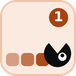
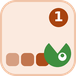
Chomp: green alligator head, and the d-pad is the only movement on a phone
Two owner reports from the live board.

1. Dragging on the board moved the gator. The canvas carried swipe-to-move
   pointer handlers plus touchAction:none, so a thumb trying to SCROLL THE PAGE
   dragged the head the length of the board. Both are gone: the canvas is inert,
   the page scrolls over it like any other element, and on a phone the d-pad is
   the only movement control.

2. The head is now an actual alligator, and green. It is drawn in local
   coordinates with +x as the direction of travel and then rotated into place,
   which is the only way jaw geometry stays readable: two jaws hinged at the
   back, teeth along the bite line, an eye ridge proud of the skull with a slit
   pupil (a round one reads as a frog), and a nostril at the snout tip. The jaws
   swing wide on the move that swallows a mascot and clamp shut when the run
   ends. Tile art and the share card follow the same green.

Changed region(s): [[0.5789, 0.5526, 0.9474, 0.8947]]

diff --git a/app/chomp/ChompClient.jsx b/app/chomp/ChompClient.jsx
@@ -94,39 +94,87 @@ function scoreOf(eaten, total) {
 }
 
 // ---- the gator's head ------------------------------------------------------
-// A circle with a wedge of jaw bitten out of the leading edge, which is the one
-// shape that still reads as an open mouth at thirty pixels. It gapes wider on
-// the move that swallows a mascot and the eye becomes an X when the run ends.
+// Drawn in LOCAL coordinates with +x pointing the way it is travelling, then
+// rotated into place. Everything below is therefore written as if the gator
+// always faces right, which is the only way jaw geometry stays readable.
+//
+// It is a long snout rather than a disc: two jaw halves hinged at the back, with
+// teeth along the bite line, an eye ridge sitting proud on top, and a nostril at
+// the tip. The jaws swing open on the move that swallows a mascot and clamp shut
+// when the run ends.
+const GATOR = { skin: '#3f8f3f', dark: '#2a6b2a', belly: '#8fca7a', teeth: '#ffffff' };
 function drawHead(ctx, cellXY, facing, cell, dead, chewing) {
   const [hx, hy] = cellXY;
   const f = facing && (facing[0] || facing[1]) ? facing : [1, 0];
-  const [fx, fy] = f;
   const cx = hx * cell + cell / 2, cy = hy * cell + cell / 2;
-  const R = cell * 0.46;
-  const ang = Math.atan2(fy, fx);
-  const gape = dead ? 0.16 : chewing ? 0.85 : 0.5;
-  ctx.fillStyle = COLORS.ink;
-  ctx.beginPath();
-  ctx.arc(cx, cy, R, ang + gape, ang - gape + Math.PI * 2);
-  ctx.lineTo(cx, cy);
-  ctx.closePath();
-  ctx.fill();
-  const px = -fy, py = fx;
-  const ex = cx - fx * cell * 0.10 + px * cell * 0.19;
-  const ey = cy - fy * cell * 0.10 + py * cell * 0.19;
-  const r = Math.max(1.7, cell * 0.115);
-  ctx.fillStyle = '#ffffff';
-  ctx.beginPath(); ctx.arc(ex, ey, r, 0, 7); ctx.fill();
-  if (dead) {
-    ctx.strokeStyle = COLORS.ink; ctx.lineWidth = Math.max(1.2, cell * 0.05);
+  const c = cell;
+  const gape = dead ? 0.04 : chewing ? 0.46 : 0.26;   // radians, per jaw
+
+  ctx.save();
+  ctx.translate(cx, cy);
+  ctx.rotate(Math.atan2(f[1], f[0]));
+
+  // one jaw: a wedge from the hinge out to the snout, drawn either side of the
+  // bite line. `sign` is -1 for the upper jaw, +1 for the lower.
+  const jaw = (sign, len, thick, fill) => {
+    ctx.save();
+    ctx.rotate(sign * gape);
     ctx.beginPath();
-    ctx.moveTo(ex - r * 0.62, ey - r * 0.62); ctx.lineTo(ex + r * 0.62, ey + r * 0.62);
-    ctx.moveTo(ex + r * 0.62, ey - r * 0.62); ctx.lineTo(ex - r * 0.62, ey + r * 0.62);
+    ctx.moveTo(-c * 0.34, 0);
+    ctx.lineTo(len, 0);
+    ctx.quadraticCurveTo(len + c * 0.05, sign * thick * 0.5, len - c * 0.06, sign * thick);
+    ctx.lineTo(-c * 0.26, sign * thick * 1.05);
+    ctx.quadraticCurveTo(-c * 0.40, sign * thick * 0.6, -c * 0.34, 0);
+    ctx.closePath();
+    ctx.fillStyle = fill;
+    ctx.fill();
+    // teeth along the bite line, biggest at the front
+    if (gape > 0.10) {
+      ctx.fillStyle = GATOR.teeth;
+      for (let i = 0; i < 4; i++) {
+        const x = len - c * 0.10 - i * c * 0.10;
+        const w = c * (0.055 - i * 0.006);
+        ctx.beginPath();
+        ctx.moveTo(x - w, 0);
+        ctx.lineTo(x + w, 0);
+        ctx.lineTo(x, sign * c * 0.11);
+        ctx.closePath();
+        ctx.fill();
+      }
+    }
+    ctx.restore();
+  };
+
+  jaw(1, c * 0.46, c * 0.20, GATOR.belly);   // lower jaw, paler, drawn first
+  jaw(-1, c * 0.52, c * 0.26, GATOR.skin);   // upper jaw, on top
+
+  // the eye ridge, sitting proud on the skull behind the snout
+  ctx.save();
+  ctx.rotate(-gape);
+  const ex = -c * 0.14, ey = -c * 0.24;
+  ctx.fillStyle = GATOR.skin;
+  ctx.beginPath(); ctx.arc(ex, ey, c * 0.13, 0, 7); ctx.fill();
+  ctx.fillStyle = dead ? GATOR.dark : '#ffffff';
+  ctx.beginPath(); ctx.arc(ex, ey, c * 0.085, 0, 7); ctx.fill();
+  if (dead) {
+    ctx.strokeStyle = '#ffffff'; ctx.lineWidth = Math.max(1, c * 0.035);
+    ctx.beginPath();
+    ctx.moveTo(ex - c * 0.05, ey - c * 0.05); ctx.lineTo(ex + c * 0.05, ey + c * 0.05);
+    ctx.moveTo(ex + c * 0.05, ey - c * 0.05); ctx.lineTo(ex - c * 0.05, ey + c * 0.05);
     ctx.stroke();
   } else {
-    ctx.fillStyle = COLORS.ink;
-    ctx.beginPath(); ctx.arc(ex + fx * r * 0.36, ey + fy * r * 0.36, Math.max(0.9, r * 0.46), 0, 7); ctx.fill();
+    // a slit pupil, because a round one reads as a frog
+    ctx.fillStyle = '#0b0c0e';
+    ctx.beginPath();
+    ctx.ellipse(ex, ey, Math.max(0.7, c * 0.022), c * 0.062, 0, 0, 7);
+    ctx.fill();
   }
+  // nostril at the very tip of the snout
+  ctx.fillStyle = GATOR.dark;
+  ctx.beginPath(); ctx.arc(c * 0.40, -c * 0.13, Math.max(0.8, c * 0.032), 0, 7); ctx.fill();
+  ctx.restore();
+
+  ctx.restore();
 }
 
 // ---- stats (identical shape to every other daily) --------------------------
@@ -358,29 +406,12 @@ export default function ChompClient({ puzzles = [], forceNum = null }) {
     onContextMenu: (e) => e.preventDefault(),
   });
 
-  const swRef = useRef(null);
-  const boardProps = {
-    onPointerDown: (e) => {
-      if (gRef.current.status !== 'playing' || !gRef.current.t0) return;
-      e.preventDefault();
-      swRef.current = { ax: e.clientX, ay: e.clientY };
-      e.currentTarget.setPointerCapture && e.currentTarget.setPointerCapture(e.pointerId);
-    },
-    onPointerMove: (e) => {
-      const s = swRef.current;
-      if (!s) return;
-      const cell = Math.max(16, cellRef.current);
-      const dx = e.clientX - s.ax, dy = e.clientY - s.ay;
-      if (Math.abs(dx) >= cell && Math.abs(dx) >= Math.abs(dy)) {
-        move(dx > 0 ? 'right' : 'left'); s.ax += dx > 0 ? cell : -cell; s.ay = e.clientY;
-      } else if (Math.abs(dy) >= cell) {
-        move(dy > 0 ? 'down' : 'up'); s.ay += dy > 0 ? cell : -cell; s.ax = e.clientX;
-      }
-    },
-    onPointerUp: () => { swRef.current = null; },
-    onPointerCancel: () => { swRef.current = null; },
-    onContextMenu: (e) => e.preventDefault(),
-  };
+  // NO drag-to-move on the board (owner, 2026-08-08). The swipe handler that
+  // used to live here captured pointer events over the canvas, so a thumb trying
+  // to SCROLL THE PAGE dragged the gator the length of the board instead. On a
+  // phone the d-pad is the only movement control; the canvas is now inert and
+  // `touchAction` is left alone so the page scrolls over it like any other
+  // element.
 
   // ---- canvas --------------------------------------------------------------
   // sizeBoard redraws through drawRef rather than closing over `draw`. It only
@@ -663,7 +694,7 @@ export default function ChompClient({ puzzles = [], forceNum = null }) {
             </div>
 
             <div ref={boxRef} style={{ display: 'flex', justifyContent: 'center' }}>
-              <canvas ref={cvsRef} {...boardProps} style={{ display: 'block', touchAction: 'none' }} />
+              <canvas ref={cvsRef} style={{ display: 'block' }} />
             </div>
 
             <div className="ch-dock">
@@ -679,7 +710,7 @@ export default function ChompClient({ puzzles = [], forceNum = null }) {
               &larr; &uarr; &darr; &rarr; or WASD &middot; hold to keep going &middot; a blocked move is refused, not fatal
             </div>
             <div className="ch-touchhint" style={{ display: 'none', textAlign: 'center', marginTop: 8, fontSize: 10.5, fontWeight: 700, letterSpacing: '0.03em', color: '#9aa2b1' }}>
-              Swipe the board or use the pad &middot; hold an arrow to keep going
+Use the pad to move &middot; hold an arrow to keep going
             </div>
           </div>
         )}

diff --git a/lib/og-brand-card.js b/lib/og-brand-card.js
@@ -3797,7 +3797,7 @@ function chompBoardEl() {
       key: 'head',
       style: {
         position: 'absolute', left: PAD + c * CELL + 2.5, top: PAD + r * CELL + 2.5,
-        width: D, height: D, borderRadius: D, background: '#0b0c0e', display: 'flex',
+        width: D, height: D, borderRadius: D, background: '#3f8f3f', display: 'flex',
       },
     }));
     kids.push(h('div', {
